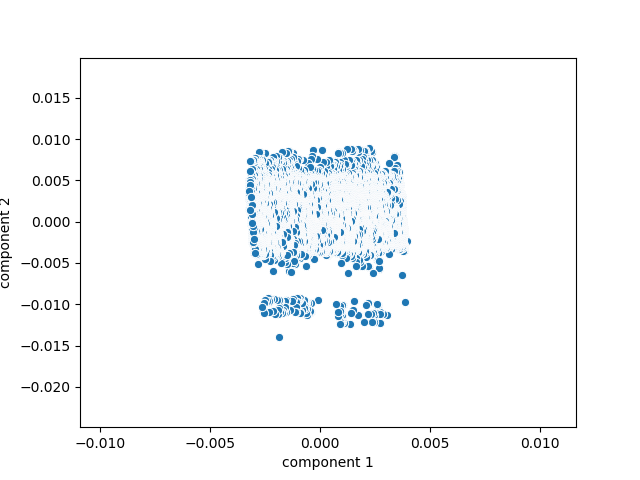
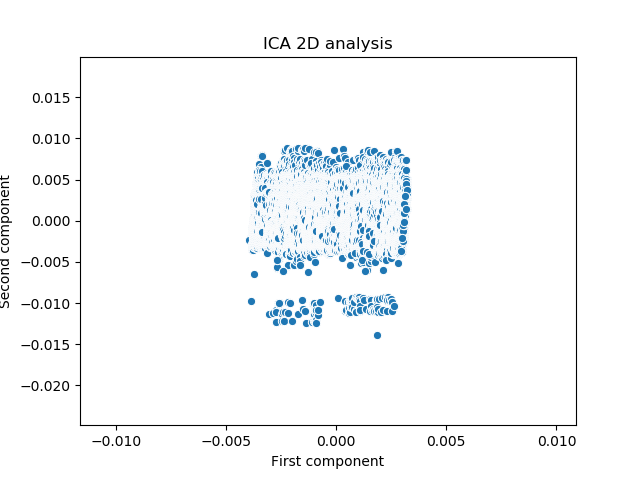
added titels to the graphs and modified the plotting function

diff --git a/decomposition.py b/decomposition.py
@@ -1,29 +1,17 @@
 import pandas as pd
 import numpy as np
+import load_data as ld
+from visualization import scatterdDfVisualization
+from sklearn.feature_selection import mutual_info_regression
 from sklearn.decomposition import PCA, FastICA
 import matplotlib.pyplot as plt
-from mpl_toolkits.mplot3d import Axes3D
-import load_data as ld
-import seaborn as sns
-from sklearn.feature_selection import mutual_info_regression
 # function for decomposing the data to fewer dimensions using the constructor function inserted.
-def decompose(data,dec_func,n_components=2,c=None,savefig=0,name_of_file=None):
+def decompose(data,dec_func,n_components=2):
     dec_obj = dec_func(n_components=n_components)
     dec_obj.fit(data)
     components = dec_obj.fit_transform(data)
     #changing the columns names.
     componentsDF = pd.DataFrame(data=components, columns=list(map(lambda num:'component '+str(num),range(1,n_components+1))))
-    #visualization
-    if savefig==1:
-        fig = plt.figure()
-        if n_components==3:
-            ax=Axes3D(fig)
-            ax.scatter(componentsDF['component 1'],componentsDF['component 2'],componentsDF['component 3'],c=c)
-            fig.savefig(name_of_file)
-        if n_components==2:
-            ax=fig.add_axes()
-            sns.scatterplot(componentsDF['component 1'],componentsDF['component 2'],data=data,hue=c,ax=ax)
-            fig.savefig(name_of_file)
     return dec_obj,componentsDF
 #The function returns the most importent fetures in the orignal_data
 def importent_feat(dec_obj,orignal_data_columns):
@@ -31,4 +19,15 @@ def importent_feat(dec_obj,orignal_data_columns):
     most_important_feat = [np.abs(dec_obj.components_[i]).argmax() for i in range(n_components)]
     important_feat_names = [orignal_data_columns[index] for index in most_important_feat]
     return  important_feat_names
+"""
+fig=plt.figure()
+normalized_data=ld.minmax_norm(ld.data)
+componentsDF=decompose(normalized_data,FastICA,n_components=3)[1]
+ax=scatterdDfVisualization(componentsDF,fig,c=ld.class_col)
+ax.set_xlabel('First component')
+ax.set_ylabel('Second component')
+ax.set_zlabel('Third component')
+ax.set_title('3D ICA by class analysis')
+plt.show()
+"""
 

diff --git a/visualization.py b/visualization.py
@@ -2,6 +2,8 @@ import matplotlib.pyplot as plt
 import seaborn as sns
 import pandas as pd
 import numpy as np
+from mpl_toolkits.mplot3d import Axes3D
+
 # Plots the distribution of all columns by the shape and size inserted as arguments.
 
 def dist_of_cols(col_list,data,figsize,nrows=1,ncols=1,savefig=0,name_of_file=None):
@@ -31,7 +33,15 @@ def dis_by_cat(data,col_name,cat_name,figsize,savefig=0,name_of_file=None):
       g.savefig(name_of_file)
   plt.tight_layout()
   plt.show()
-
+def scatterdDfVisualization(df,fig,**kwargs):
+    n_components=df.shape[1]
+    if n_components == 3:
+        ax = Axes3D(fig)
+        ax.scatter(df.iloc[:,0], df.iloc[:,1], df.iloc[:,2],**kwargs)
+    if n_components == 2:
+        ax = fig.add_subplot()
+        sns.scatterplot(df.iloc[:,0], df.iloc[:,1], data=df,ax=ax)
+    return ax
 """
     sns.barplot(x='Class',y='Amount',data=data )
     sns.stripplot(x="Class", y="Amount", data=data)

diff --git a/auto_encoder.py b/auto_encoder.py
@@ -10,12 +10,11 @@ import matplotlib.pyplot as plt
 from sklearn.neighbors.kde import KernelDensity
 from sklearn.cluster import KMeans
 
-
 data=ld.data
 normalized_data=ld.minmax_norm(data)
 vector_size=len(ld.data.columns)
 lr=0.001
-n_epochs=7
+n_epochs=5
 n_cluster=3
 class autoencoder(nn.Module):
     def __init__(self, vector_size):
@@ -94,10 +93,13 @@ model.eval()
 for x in tensor_data:
     losses.append(criterion(model(x),x).item())
 fitkmeans(losses,3)
+"""
 #set title !!
-#sns.stripplot(x =ld.class_col,y=losses)
+sns.barplot(x=ld.class_col,y=losses)
+plt.title('Auto-encoder-anomaly-detection-Average-loss')
+plt.ylabel('Average loss')
 plt.show()
-
+"""
 
 
 

diff --git a/clustring.py b/clustring.py
@@ -13,7 +13,6 @@ figsize=(15,15)
 data=ld.data
 n_clusters=2
 n_components=3
-eps=0.15
 def create_silhouette(data,prediction,n_clusters,ax):
     y_lower = 10
     sample_silhouette_values = silhouette_samples(data, prediction)
@@ -38,7 +37,6 @@ def create_silhouette(data,prediction,n_clusters,ax):
     return ax
 
 kmeans = KMeans(n_clusters=n_clusters)
-dbscan=DBSCAN(eps)
 gmm = GaussianMixture(n_components=n_clusters)
 clustring_algorithms=(('Kmeans',kmeans),('GMM',gmm))
 normalization=[('MiniMax',ld.minmax_norm),('Zscore',ld.zscore_norm),('RobustScaler',ld.Robust_std)]

diff --git a/load_data.py b/load_data.py
@@ -11,7 +11,7 @@ def minmax_norm(df):
 def zscore_norm(df):
     return (df - df.mean()) / df.std()
 
-def Robust_std(df): 
+def Robust_std(df):
     transformer = RobustScaler().fit(df)
     return pd.DataFrame(transformer.transform(df),columns=df.columns)
 
@@ -20,6 +20,7 @@ def kick_anom(dataset, coll_name, limit):
         if dataset.loc[i][coll_name] > limit:
             dataset = dataset.drop(i)
     return dataset
+
 data = pd.read_csv('creditcard.csv')
 class_col=data['Class']
 data = data.drop(columns=["Class"])
